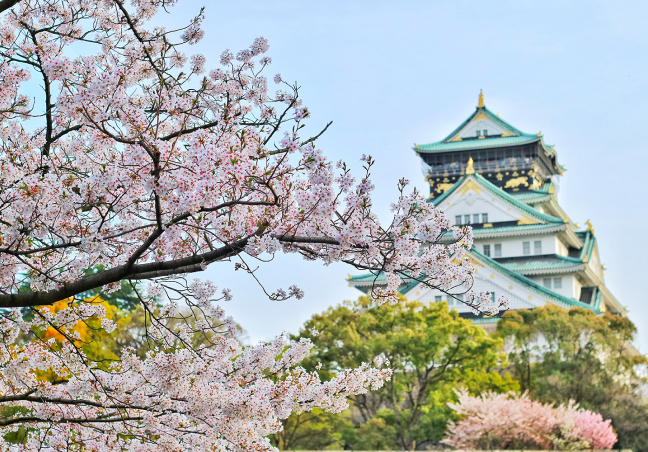
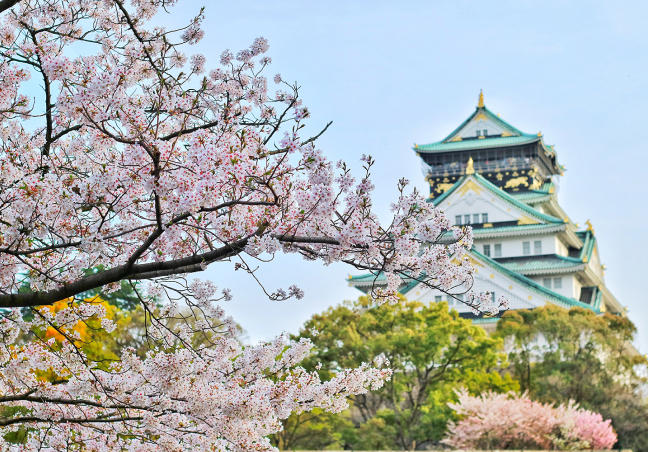
Adiciona novidades responsivas

diff --git a/css/offers.css b/css/offers.css
@@ -1,123 +1,124 @@
-.offers-cards{
-    display: flex;
-    flex-direction: column;
-    align-items: center;
-    gap: 24px;
-
+.offers-cards {
+  display: flex;
+  flex-direction: column;
+  align-items: center;
+  gap: 24px;
 }
 
-.card{
-    color: var(--text-secondary-color);
-    background-color: var(--background-tertiary-color);
-    padding: 24px 16px;
-    width: 312px;
-    height: 288px;
-    box-sizing: border-box;
-    text-align: center;
-    border-radius: 16px;
-    overflow: hidden;
+.card {
+  color: var(--text-secondary-color);
+  background-color: var(--background-tertiary-color);
+  padding: 24px 16px;
+  width: 312px;
+  max-width: 340px;
+  height: 288px;
+  box-sizing: border-box;
+  text-align: center;
+  border-radius: 16px;
+  overflow: hidden;
 }
 
-.card header{
-    display: block;
-    background-color: transparent;
-    position: static;
-    border-radius: 16px;
-    padding: 10px;
+.card header {
+  display: block;
+  background-color: transparent;
+  position: static;
+  border-radius: 16px;
+  padding: 10px;
 }
 
-.card header p{
-    font-size: 20px;
-    font-weight: var(--text-weight);
+.card header p {
+  font-size: 20px;
+  font-weight: var(--text-weight);
 }
 
-.card header h3{
-    font-size: 40px;
-    font-weight: var(--title-weight);
-    margin: 8px 0 0;
-    margin-bottom: 24px;
+.card header h3 {
+  font-size: 40px;
+  font-weight: var(--title-weight);
+  margin: 8px 0 0;
+  margin-bottom: 24px;
 }
 
-.card header span{
-    font-size: 32px;
-    font-weight: var(--title-weight);
-    margin-top: 24px;
-    display: inline-block;
+.card header span {
+  font-size: 32px;
+  font-weight: var(--title-weight);
+  margin-top: 24px;
+  display: inline-block;
 }
 
-
-.button{
-    width: 280px;
-    height: 64px;
-    color: var(--text-secondary-color);
-    font-weight: var(--title-weight);
-    font-size: 20px;
-    background-color: var(--secondary-color);
-    border-radius: 16px;
-    display: inline-block;
-    text-decoration: none;
-    line-height: 64px;
+.button {
+  width: 280px;
+  height: 64px;
+  color: var(--text-secondary-color);
+  font-weight: var(--title-weight);
+  font-size: 20px;
+  background-color: var(--secondary-color);
+  border-radius: 16px;
+  display: inline-block;
+  text-decoration: none;
+  line-height: 64px;
 }
 
-.card.japao{
-    background: url(../img/card-japan.jpg) no-repeat;
-    background-size: cover;
+.card.japao {
+  background: url(../img/card-japan.jpg) no-repeat;
+  background-size: cover;
 }
 
-.card.san.andreas{
-    background: url(../img/card-san-andreas.jpg) no-repeat;
-    background-size: cover;
-    display: flex;
-    flex-direction: column;
-    justify-content: space-between;
+.card.san.andreas {
+  background: url(../img/card-san-andreas.jpg) no-repeat;
+  background-size: cover;
+  display: flex;
+  flex-direction: column;
+  justify-content: space-between;
 }
 
-.card.paraiba{
-    background: url(../img/card-paraiba.jpg) no-repeat;
-    background-size: cover;
+.card.paraiba {
+  background: url(../img/card-paraiba.jpg) no-repeat;
+  background-size: cover;
 }
 
-.card.manaus{
-    background: url(../img/card-manaus.jpg) no-repeat;
-    background-size: cover;
+.card.manaus {
+  background: url(../img/card-manaus.jpg) no-repeat;
+  background-size: cover;
 }
-.button:hover{
-    background-color: var(--primary-color);
+.button:hover {
+  background-color: var(--primary-color);
 }
 
 .card.san.andreas header {
-    padding: 0px;
-    padding-top: 37px;
+  padding: 0px;
+  padding-top: 37px;
 }
 
-.card.san.andres header h3{
-    font-size: 32px;
-    margin-bottom: 0px;
+.card.san.andres header h3 {
+  font-size: 32px;
+  margin-bottom: 0px;
 }
 
 .card.san.andreas header span {
-    margin-top: 0px;
+  margin-top: 0px;
 }
 
 .card.san.andreas footer {
-    margin-top: auto;
+  margin-top: auto;
 }
 
-@media screen and (min-width: 768px){
-    .offers-cards{
-    flex-direction: row;
-    flex-wrap: wrap;
+@media screen and (min-width: 768px) {
+  .offers-cards {
+    display: grid;
+    grid-template-columns: repeat(2, 340px);
+    gap: 24px;
+    max-width: 700px;
     justify-content: center;
-}
+  }
+
+  .card{
+    max-width: 340px;
+    box-sizing: border-box;
+  }
 }
 
 @media screen and (min-width: 1024px){
-    .card{
-        width: 588px;
-        height: 308px;
-        font-size: 48px;
-    }
-    .card header span{
-        font-size: 40px;
-    }
+  .offers-cards{
+    width: 300px;
+  }
 }

diff --git a/css/destination.css b/css/destination.css
@@ -43,3 +43,29 @@
     justify-content: center;
     margin-bottom: 30px;
 }
+
+@media screen and (min-width: 768px){
+    .destination-img-tokyo{
+        background-image: url(../img/tokyo-tablet-desktop.jpg);
+        background-repeat: no-repeat;
+        background-size: cover;
+    }
+    .destination-img-osaka{
+        background-image: url(../img/osaka-tablet-deskop.jpg);
+        background-repeat: no-repeat;
+        background-size: cover;
+    }
+}
+
+@media screen and (min-width: 1024px){
+    .destination-img-tokyo{
+        background-image: url(../img/tokyo-tablet-desktop.jpg);
+        background-repeat: no-repeat;
+        background-size: cover;
+    }
+    .destination-img-osaka{
+        background-image: url(../img/osaka-tablet-deskop.jpg);
+        background-repeat: no-repeat;
+        background-size: cover;
+    }
+}

diff --git a/css/payment.css b/css/payment.css
@@ -47,5 +47,27 @@
 }
 
 .img-full-trip {
-    margin: 24px;
+  margin: 24px;
+}
+
+@media screen and (min-width: 768px) {
+  .trip1 {
+    background-image: url(../img/viagem1-tablet.jpg);
+    background-repeat: no-repeat;
+    background-size: cover;
+    width: 267px;
+  }
+
+  .trip2 {
+    background-image: url(../img/viagem2-tablet.jpg);
+    background-repeat: no-repeat;
+    background-size: cover;
+    width: 267px;
+  }
+
+  .trip3 {
+    background-image: url(../img/viagem3-tablet.jpg);
+    background-repeat: no-repeat;
+    background-size: cover;
+  }
 }

diff --git a/css/categories.css b/css/categories.css
@@ -43,18 +43,15 @@
 
 @media screen and (min-width: 768px){
     .categories-container{
-        max-width: 720px;
-        margin: 0 auto;
+    display: grid;
+    grid-template-columns: repeat(2, 340px);
+    gap: 24px;
+    max-width: 700px;
+    justify-content: center;
     }
 }
 
 @media screen and (min-width: 1024px){
-    .categories-container{
-    display: flex;
-    flex-wrap: nowrap;
-    justify-content: center;
-    gap: 20px;
-}
 .categories-img{
     height: 80px;
     width: 280px;

diff --git a/css/global.css b/css/global.css
@@ -27,7 +27,8 @@ html, body{
 }
 
 section{
-  width: 312px;
+  width: 90%;
+  max-width: 350px;
   margin: 0 auto;
 }
 
@@ -66,6 +67,12 @@ h1 {
 @media screen and (min-width: 768px){
   .section-title h2{
   font-size: 32px;
-
+}
+section {
+    max-width: 600px; /* Aumenta o limite para tablets */
+}
+section.hero{
+  width: 100%;
+  max-width: none;
 }
 }
